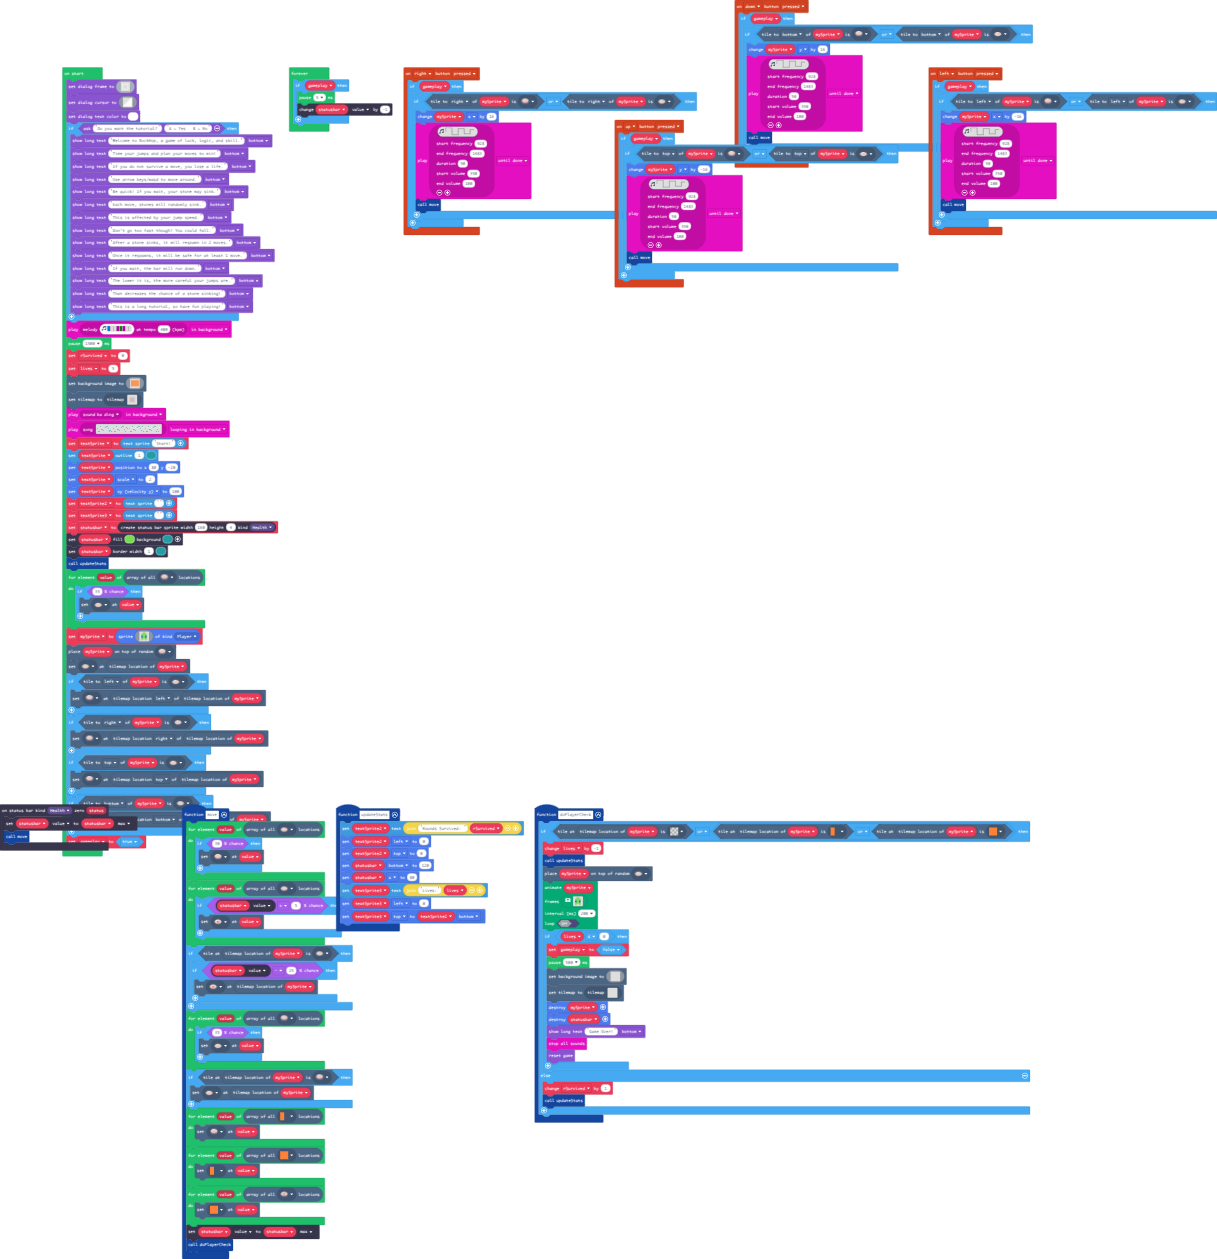
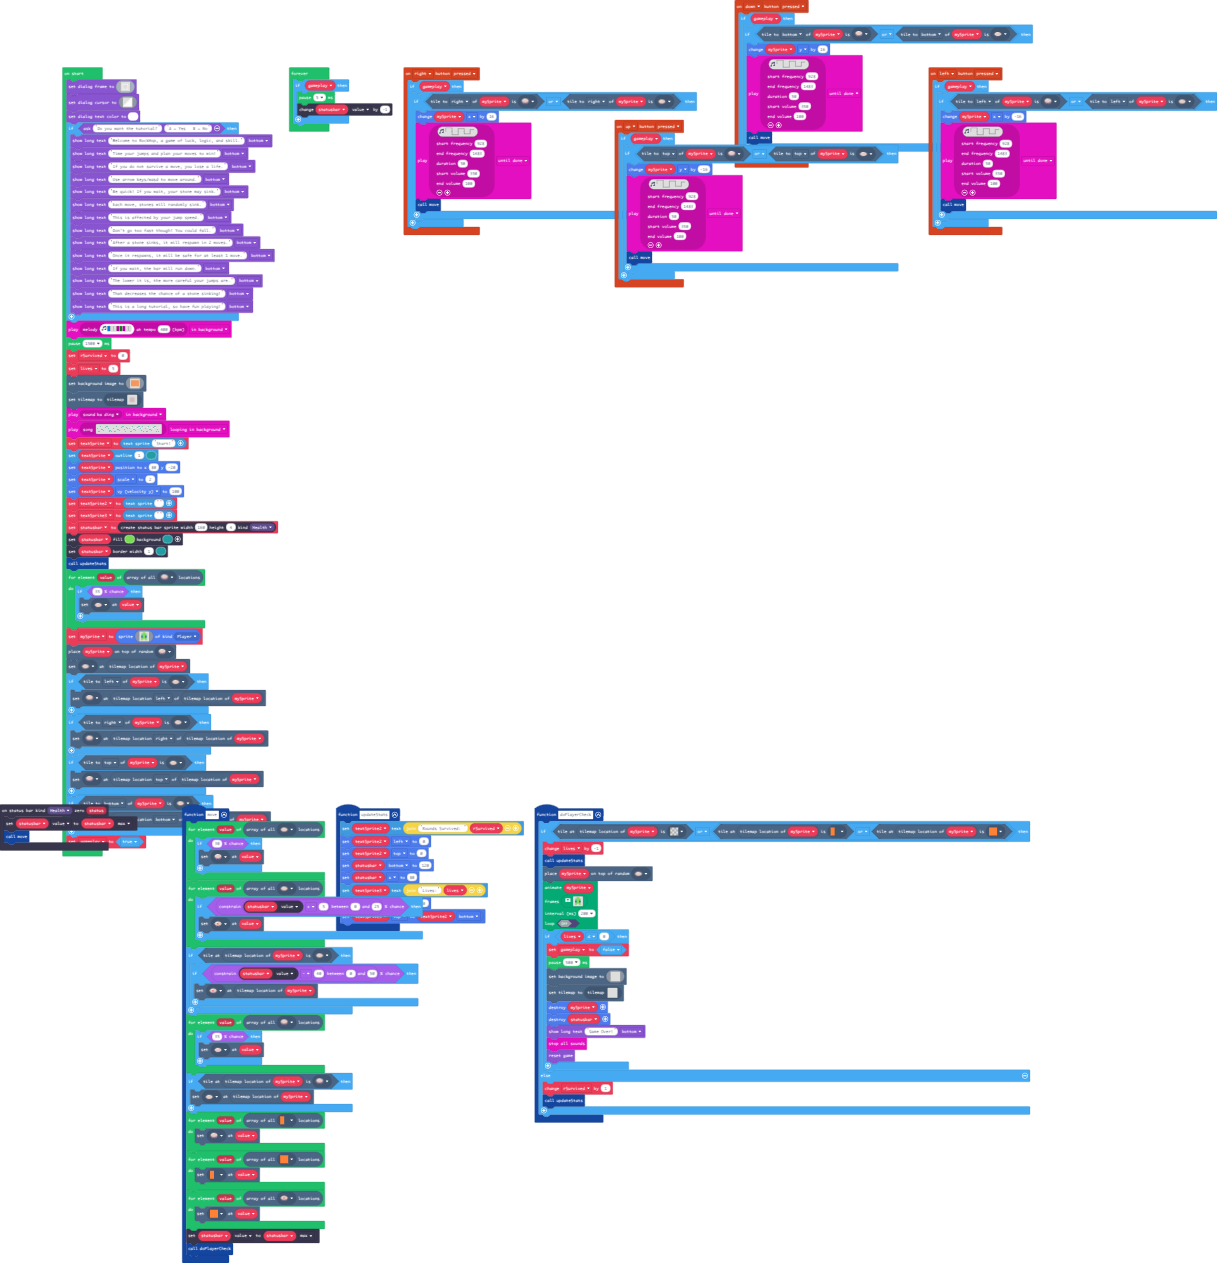
Update main.blocks, main.ts

diff --git a/main.ts b/main.ts
@@ -305,12 +305,12 @@ function move () {
         }
     }
     for (let value of tiles.getTilesByType(assets.tile`myTile`)) {
-        if (Math.percentChance(statusbar.value + 5)) {
+        if (Math.percentChance(Math.constrain(statusbar.value + 5, 0, 25))) {
             tiles.setTileAt(value, assets.tile`myTile2`)
         }
     }
     if (tiles.tileAtLocationEquals(mySprite.tilemapLocation(), assets.tile`myTile`)) {
-        if (Math.percentChance(statusbar.value - 25)) {
+        if (Math.percentChance(Math.constrain(statusbar.value - 40, 0, 50))) {
             tiles.setTileAt(mySprite.tilemapLocation(), assets.tile`myTile2`)
         }
     }
